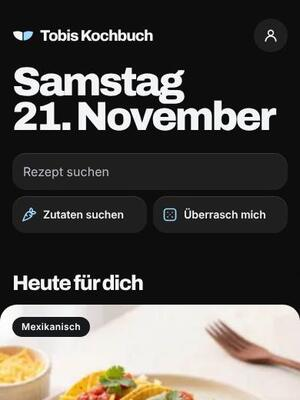
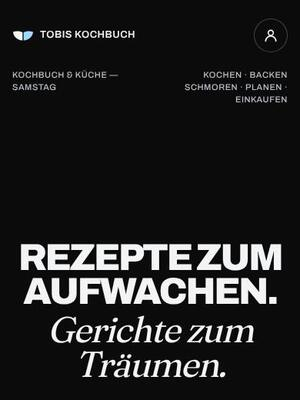
Glasklar neu: Vollbild-Leitsatz hinter 3D-Glas, nummerierte Abschnitte, Versal-Sätze, Fotos ohne Karten
Claude-Session: https://claude.ai/code/session_013PTjiN2vxWXEUNgaQEpBeg

diff --git a/assets/skins/glasklar.css b/assets/skins/glasklar.css
@@ -1,90 +1,130 @@
 /* Skin „glasklar“ – wird nur geladen, wenn dieser Skin aktiv ist (siehe Kopf von _layouts/default.html).
-   Wunsch des Besitzers (Nov. 2026): ein Glas- bzw. Eisblock vor riesiger Schrift (Vorbild: ein Portfolio mit Glasobjekt).
-   Der Seitentitel wird auf einer Leinwand nachgezeichnet, ein Glasblock gleitet darüber und bricht ihn.
-   Verhalten (Leinwand, Scroll-Bewegung): assets/skins/glasklar.js, geladen von fxRun() in assets/skins.js. Neue Regeln ans Ende. */
-
+   Dez. 2026 zweiter Neubau (Besitzer: „zu nah am Standard“), nach dem Vorbild (Portfolio eines Web-Designers; im Container nur als Text
+   lesbar): Schwarz, winzige Versal-Beschriftungen, nummerierte Abschnitte „(01) …“, große Versal-Sätze mit kursivem Serifenwort, Fotos
+   ohne Kartenfläche. Start: Vollbild mit Leitsatz hinter einem Eisbrocken aus echtem 3D-Glas (glasklar.js, glasklar-3d.js). Neue Regeln ans Ende. */
 @font-face{font-family:"Skin Glas";font-weight:100 900;font-display:swap;src:url("../fonts/archivo.woff2") format("woff2")}
 html.skin-glasklar:not(#_x#_y),html.skin-glasklar:not(#_x#_y) body{
-  --field:#0D0D0E;--onField:#F2F4F6;--onField2:#B9C0C7;--fieldFill:rgba(255,255,255,.08);
-  --bg:#0D0D0E;--surface:#18191B;--surface2:#202225;--fill:rgba(255,255,255,.07);--line:rgba(255,255,255,.12);--lineStrong:rgba(255,255,255,.4);
+  --field:#0B0B0C;--onField:#F2F4F6;--onField2:#B9C0C7;--fieldFill:rgba(255,255,255,.08);
+  --bg:#0B0B0C;--surface:#161718;--surface2:#1E2022;--fill:rgba(255,255,255,.07);--line:rgba(255,255,255,.14);--lineStrong:rgba(255,255,255,.45);
   --text:#F2F4F6;--sub:#B9C0C7;--sub2:#B9C0C7;--muted:#A3AAB2;
-  --brand:#F2F4F6;--onBrand:#0D0D0E;--leaf:#F2F4F6;--onLeaf:#0D0D0E;--brandSoft:rgba(255,255,255,.1);--leafSoft:rgba(255,255,255,.1);
-  --sel:#F2F4F6;--onSel:#0D0D0E;--accent:#9FD8FF;--accentSoft:rgba(159,216,255,.14);--onAccent:#0D0D0E;--herb:#F2F4F6;--coffee:#18191B;
-  --glass:rgba(16,17,19,.9);--glassLine:rgba(255,255,255,.12);--glassShadow:none;
-  --fontDisplay:"Skin Glas", -apple-system, "Inter", sans-serif;
+  --brand:#F2F4F6;--onBrand:#0B0B0C;--leaf:#F2F4F6;--onLeaf:#0B0B0C;--brandSoft:rgba(255,255,255,.1);--leafSoft:rgba(255,255,255,.1);
+  --sel:#F2F4F6;--onSel:#0B0B0C;--accent:#9FD8FF;--accentSoft:rgba(159,216,255,.14);--onAccent:#0B0B0C;--herb:#F2F4F6;--coffee:#161718;
+  --glass:rgba(14,15,16,.92);--glassLine:rgba(255,255,255,.12);--glassShadow:none;
+  --fontDisplay:"Skin Glas", -apple-system, "Inter", sans-serif;--fontUi:"Skin Glas", -apple-system, "Inter", sans-serif;
   color-scheme:dark}
-html.skin-glasklar:not(#_x#_y) body.grouped{--bg:#0D0D0E;--surface:#18191B}
-html.skin-glasklar:not(#_x#_y) .cookOverlay{--cBg:#0D0D0E;--cCard:#18191B;--cFill:rgba(255,255,255,.07);--cLine:rgba(255,255,255,.12);--cText:#F2F4F6;--cSub:#B9C0C7;--cLeaf:#F2F4F6;--cOnLeaf:#0D0D0E}
-html.skin-glasklar:not(#_x#_y) ::selection{background:#CFE3F0;color:#0D0F12}
+html.skin-glasklar:not(#_x#_y) body.grouped{--bg:#0B0B0C;--surface:#161718}
+html.skin-glasklar:not(#_x#_y) .cookOverlay{--cBg:#0B0B0C;--cCard:#161718;--cFill:rgba(255,255,255,.07);--cLine:rgba(255,255,255,.14);--cText:#F2F4F6;--cSub:#B9C0C7;--cLeaf:#F2F4F6;--cOnLeaf:#0B0B0C}
+html.skin-glasklar:not(#_x#_y) ::selection{background:#9FD8FF;color:#0B0B0C}
+html.skin-glasklar{background:#0B0B0C}
+html.skin-glasklar:not(#_x#_y) .skinScene{background:transparent !important}
+html.skin-glasklar:not(#_x#_y) body .pageContent{background:transparent !important;box-shadow:none !important}
+html.skin-glasklar:not(#_x#_y) .fxDrawn,html.skin-glasklar:not(#_x#_y) .fxDrawn *{color:transparent !important;-webkit-text-fill-color:transparent;text-shadow:none !important}
+.skinScene-glasklar .glGL,.gkHero .glGL{position:absolute;inset:0;width:100%;height:100%}
 
-html.skin-glasklar:not(#_x#_y) :is(.pageTitleBlock .h1,.homeGreetingTitle,.recipeHeroText .recipeName,.homeFeatured .homeFeaturedTitle,.homeSectionTitle,.h2,.sheetTitle,.recipeTitle,.catTileName,.navCompact,.catGroupTitle,.prepTitle,.continueTitle,.brandWordmark){font-family:var(--fontDisplay);font-weight:800;letter-spacing:-.05em}
-html.skin-glasklar:not(#_x#_y) .pageTitleBlock .h1,html.skin-glasklar:not(#_x#_y) body .homeGreetingTitle.homeGreetingTitle{font-size:min(clamp(2.8rem, 13.5vw, 5rem), 13.5vw);line-height:.86;font-weight:850;letter-spacing:-.06em}
-html.skin-glasklar:not(#_x#_y) .homeSectionTitle,html.skin-glasklar:not(#_x#_y) .h2{font-size:1.7rem}
-html.skin-glasklar:not(#_x#_y) .recipeTitle{font-weight:700;letter-spacing:-.03em}
-/* Titel, den die Leinwand nachzeichnet: Text bleibt für Vorlesen und Suche da, ist aber durchsichtig */
-html.skin-glasklar:not(#_x#_y) .fxDrawn{color:transparent !important;-webkit-text-fill-color:transparent;text-shadow:none !important}
-.skinScene-glasklar .fxCanvas{position:absolute;inset:0;width:100%;height:100%}
+/* ---------- Schrift: Versal-Grotesk, winzige Beschriftungen, kursive Serife als Akzent ---------- */
+html.skin-glasklar:not(#_x#_y) :is(.pageTitleBlock .h1,.recipeHeroText .recipeName,.homeSectionTitle,.h2,.sheetTitle,.recipeTitle,.catTileName,.navCompact,.catGroupTitle,.prepTitle,.continueTitle,.brandWordmark,.ingSection){font-family:"Skin Glas", -apple-system, "Inter", sans-serif !important;text-transform:uppercase;letter-spacing:-.02em !important}
+html.skin-glasklar:not(#_x#_y) .pageTitleBlock .h1{font-size:min(clamp(2.8rem, 13.5vw, 6rem), 13.5vw) !important;line-height:.86 !important;font-weight:850 !important;letter-spacing:-.05em !important}
+html.skin-glasklar:not(#_x#_y) :is(.homeSectionTitle,.h2,.catGroupTitle){font-size:.8125rem !important;font-weight:500 !important;letter-spacing:.04em !important;line-height:1.3 !important}
+html.skin-glasklar:not(#_x#_y) .homeSectionHead{border-top:1px solid rgba(255,255,255,.18);padding-top:12px}
+.gkN{color:#9FD8FF}
+html.skin-glasklar:not(#_x#_y) :is(.homeAllLink,.resultCount,.continueEyebrow,.recipeMeta,.catTileCount,.tabLabel,.kv,.recipeAuthor,.segBtn,.filterChip,.chip,.pillToggle,.homeQuickBtn,.searchRow input,.ingHead,.notesTitle){text-transform:uppercase;letter-spacing:.04em !important;font-size:.75rem !important;font-weight:500 !important}
+html.skin-glasklar:not(#_x#_y) .homeAllLink{color:#F2F4F6 !important}
+html.skin-glasklar:not(#_x#_y) .homeAllLink::after{content:" ↗"}
 
-/* Eis: helle Flächen mit weißer Lichtkante */
-html.skin-glasklar:not(#_x#_y) :is(.recipeCard:not(.homeFeatured),.catTile,.homeFeatured,.continueCard,.homeEmpty,.homeTimer){border-radius:22px !important;
-  box-shadow:inset 0 0 0 1px rgba(255,255,255,.9), 0 12px 32px rgba(30,60,90,.10) !important}
-html.skin-glasklar:not(#_x#_y) .recipeCard:not(.homeFeatured){background:#FFFFFF !important}
-html.skin-glasklar:not(#_x#_y) .recipeCard .rcImg{border-radius:16px !important}
-html.skin-glasklar:not(#_x#_y) .searchRow,html.skin-glasklar:not(#_x#_y) body.layout-home .searchRowCompact,html.skin-glasklar:not(#_x#_y) .homeQuickBtn{background:rgba(255,255,255,.72) !important;color:#0D0F12 !important;
-  box-shadow:inset 0 1px 0 #FFFFFF, inset 0 0 0 1px rgba(255,255,255,.9), 0 8px 24px rgba(30,60,90,.08) !important;border-radius:18px !important}
-html.skin-glasklar:not(#_x#_y) .homeQuickBtn .uiIcon{color:#1F5F8B}
-html.skin-glasklar:not(#_x#_y) :is(.btn.action,.recipeCookBtn,.cookNext,.btnPrimary){background:#0D0F12 !important;color:#FFFFFF !important;border-radius:999px !important}
-html.skin-glasklar:not(#_x#_y) :is(.filterChip,.chip,.pillToggle){background:rgba(255,255,255,.75) !important;box-shadow:inset 0 0 0 1px rgba(13,15,18,.14) !important;border-radius:999px !important}
-html.skin-glasklar:not(#_x#_y) :is(.filterChip.active,.filterChip[aria-pressed="true"],.pillToggle.active,.pillToggle[aria-pressed="true"]){background:#0D0F12 !important;color:#FFFFFF !important}
-html.skin-glasklar:not(#_x#_y) .bottomRail{background:rgba(244,247,249,.82) !important;border:1px solid rgba(255,255,255,.95);box-shadow:inset 0 1px 0 #FFFFFF, 0 12px 36px rgba(30,60,90,.14) !important}
-html.skin-glasklar:not(#_x#_y) .tabItem{color:#3B4148 !important}
-html.skin-glasklar:not(#_x#_y) .tabItem.active{background:#0D0F12 !important;color:#FFFFFF !important}
-html.skin-glasklar:not(#_x#_y) .homeAllLink{color:#1F5F8B}
-html.skin-glasklar:not(#_x#_y) .continueCard{background:#0D0F12 !important;color:#FFFFFF !important}
-html.skin-glasklar:not(#_x#_y) .continueCard :is(.continueEyebrow,.continueTitle,.continueSub){color:#FFFFFF !important}
-html.skin-glasklar:not(#_x#_y) .continuePlay{background:#FFFFFF !important;color:#0D0F12 !important}
+/* ---------- Knöpfe, Kapseln, Leiste ---------- */
+html.skin-glasklar:not(#_x#_y) :is(.searchRow,.homeQuickBtn,.navIconBtn,.recipeActBtn,.recipeBack,.profileBadge,.segmented){background:transparent !important;box-shadow:inset 0 0 0 1px rgba(255,255,255,.24) !important;color:#F2F4F6 !important;border-radius:999px !important}
+html.skin-glasklar:not(#_x#_y) .homeQuickBtn .uiIcon{color:#9FD8FF}
+html.skin-glasklar:not(#_x#_y) :is(.filterChip,.chip,.pillToggle){background:transparent !important;box-shadow:inset 0 0 0 1px rgba(255,255,255,.24) !important;color:#F2F4F6 !important;border-radius:999px !important}
+html.skin-glasklar:not(#_x#_y) :is(.filterChip.active,.filterChip[aria-pressed="true"],.pillToggle.active,.pillToggle[aria-pressed="true"],.chipMainCat){background:#F2F4F6 !important;color:#0B0B0C !important}
+html.skin-glasklar:not(#_x#_y) :is(.btn.action,.recipeCookBtn,.cookNext,.btnPrimary,.continuePlay){background:#F2F4F6 !important;color:#0B0B0C !important;border-radius:999px !important;text-transform:uppercase;letter-spacing:.04em;font-size:.8125rem !important}
+html.skin-glasklar:not(#_x#_y) .segBtn{background:transparent !important;color:#B9C0C7 !important;border-radius:999px !important}
+html.skin-glasklar:not(#_x#_y) .segBtn.active{background:#F2F4F6 !important;color:#0B0B0C !important}
+html.skin-glasklar:not(#_x#_y) .bottomRail{background:rgba(14,15,16,.78) !important;-webkit-backdrop-filter:blur(18px);backdrop-filter:blur(18px);border:1px solid rgba(255,255,255,.12) !important;box-shadow:0 12px 36px rgba(0,0,0,.6) !important}
+html.skin-glasklar:not(#_x#_y) .tabItem{color:#B9C0C7 !important;background:transparent !important}
+html.skin-glasklar:not(#_x#_y) .tabItem.active{background:#F2F4F6 !important;color:#0B0B0C !important}
 
-html.skin-glasklar:not(#_x#_y) .bxRv{opacity:0;transform:translateY(20px) scale(.97)}
-html.skin-glasklar:not(#_x#_y) .bxRv.bxRvX{transform:translateX(20px) scale(.97)}
+/* ---------- Fotos ohne Kartenfläche ---------- */
+html.skin-glasklar:not(#_x#_y) .recipeCard{background:transparent !important;box-shadow:none !important;border-radius:0 !important;overflow:visible !important}
+html.skin-glasklar:not(#_x#_y) .recipeCard .rcImg{border-radius:4px !important;box-shadow:none !important}
+html.skin-glasklar:not(#_x#_y) .recipeCard .rcBody{padding:10px 0 0 !important}
+html.skin-glasklar:not(#_x#_y) .recipeCard .recipeTitle{font-size:1.0625rem !important;font-weight:700 !important;line-height:1.15 !important;color:#F2F4F6}
+html.skin-glasklar:not(#_x#_y) .recipeCard .recipeMeta{color:#B9C0C7 !important}
+html.skin-glasklar:not(#_x#_y) .homeFeatured .rcImg{aspect-ratio:4/5 !important;max-height:none}
+html.skin-glasklar:not(#_x#_y) .homeFeatured .rcBody{position:static !important;background:none !important}
+html.skin-glasklar:not(#_x#_y) .homeFeatured :is(.homeFeaturedTitle,.recipeMeta){color:#F2F4F6 !important;text-shadow:none !important}
+html.skin-glasklar:not(#_x#_y) .homeFeatured .homeFeaturedTitle{font-family:"Skin Glas", -apple-system, "Inter", sans-serif !important;text-transform:uppercase;font-weight:800 !important;font-size:1.75rem !important;letter-spacing:-.03em !important}
+html.skin-glasklar:not(#_x#_y) .homeFeatured .heroOverlayCat{background:rgba(11,11,12,.6) !important;color:#F2F4F6 !important;text-transform:uppercase;letter-spacing:.04em}
+html.skin-glasklar:not(#_x#_y) .hScroll .rcImg{aspect-ratio:4/5 !important}
+html.skin-glasklar:not(#_x#_y) #recipeGrid{display:grid !important;grid-template-columns:repeat(2,minmax(0,1fr)) !important;gap:34px 14px !important}
+@media (min-width:700px){html.skin-glasklar:not(#_x#_y) #recipeGrid{grid-template-columns:repeat(3,minmax(0,1fr)) !important;gap:48px 22px !important}}
+@media (min-width:1100px){html.skin-glasklar:not(#_x#_y) #recipeGrid{grid-template-columns:repeat(4,minmax(0,1fr)) !important}}
+html.skin-glasklar:not(#_x#_y) #recipeGrid .linkCard{margin:0 !important}
+html.skin-glasklar:not(#_x#_y) #recipeGrid .rcImg{aspect-ratio:3/4 !important}
+html.skin-glasklar:not(#_x#_y) #recipeGrid .recipeMeta>:nth-child(n+2){display:none !important}
+html.skin-glasklar:not(#_x#_y) :is(.catTile,.homeEmpty,.uEmpty,.homeTimer,.continueCard){border-radius:4px !important;box-shadow:inset 0 0 0 1px rgba(255,255,255,.12) !important}
+html.skin-glasklar:not(#_x#_y) :is(.homeEmpty,.uEmpty){background:transparent !important}
+html.skin-glasklar:not(#_x#_y) .continueCard{background:#F2F4F6 !important;color:#0B0B0C !important}
+html.skin-glasklar:not(#_x#_y) .continueCard :is(.continueEyebrow,.continueTitle,.continueSub){color:#0B0B0C !important}
+html.skin-glasklar:not(#_x#_y) .continuePlay{background:#0B0B0C !important;color:#F2F4F6 !important}
+
+/* ---------- Startseite: Vollbild mit Leitsatz hinter Glas ---------- */
+html.skin-glasklar:not(#_x#_y) body.gkHome .homeGreeting{position:relative;min-height:100svh;margin-top:calc(-1 * env(safe-area-inset-top));padding-top:env(safe-area-inset-top)}
+html.skin-glasklar:not(#_x#_y) body.gkHome :is(.homeBrand,.homeGreetingTitle){position:relative;z-index:3}
+html.skin-glasklar:not(#_x#_y) body.gkHome .brandWordmark{font-size:.8125rem !important;font-weight:600 !important;letter-spacing:.04em !important}
+html.skin-glasklar:not(#_x#_y) body.gkHome :is(.homeGreetingTitle,.homeGreetingSub){position:absolute !important;width:1px;height:1px;overflow:hidden;clip:rect(0 0 0 0);white-space:nowrap}
+.gkHero{position:absolute;top:-140px;bottom:0;left:50%;width:100vw;margin-left:-50vw;z-index:1;overflow:hidden;background:#0B0B0C;touch-action:pan-y}
+.gkTop{position:absolute;left:max(16px, 4vw);right:max(16px, 4vw);top:calc(140px + env(safe-area-inset-top) + 66px);display:flex;justify-content:space-between;gap:16px;
+  font:500 .6875rem/1.45 "Skin Glas", -apple-system, "Inter", sans-serif;letter-spacing:.05em;text-transform:uppercase;color:#B9C0C7;z-index:2}
+.gkTop span:last-child{text-align:right}
+.gkLine{position:absolute;left:0;right:0;top:calc(50% + 70px);transform:translateY(-50%);margin:0;padding:0 max(16px, 4vw);text-align:center;color:#F2F4F6;z-index:1}
+.gkA{display:block;font:850 min(12.5vw, 7.5rem)/.9 "Skin Glas", -apple-system, "Inter", sans-serif;letter-spacing:-.055em;text-transform:uppercase}
+.gkB{display:block;margin-top:.12em;font:italic 400 min(12vw, 7rem)/.95 "Fraunces", Georgia, serif;letter-spacing:-.03em}
+.gkScroll{position:absolute;left:0;right:0;bottom:calc(env(safe-area-inset-bottom) + 104px);display:flex;flex-direction:column;align-items:center;gap:10px;font:500 .6875rem "Skin Glas", -apple-system, "Inter", sans-serif;letter-spacing:.06em;text-transform:uppercase;color:#B9C0C7;z-index:2}
+.gkScroll i{width:1px;height:34px;background:linear-gradient(#B9C0C7, transparent)}
+
+/* „(01) Heute“ */
+.gkAbout{padding:64px 0 48px;border-top:1px solid rgba(255,255,255,.18)}
+.gkNo{margin:0 0 18px;font:500 .75rem "Skin Glas", -apple-system, "Inter", sans-serif;letter-spacing:.05em;text-transform:uppercase;color:#9FD8FF}
+.gkSay{margin:0 0 24px;font:700 clamp(1.6rem, 7vw, 3.2rem)/1.04 "Skin Glas", -apple-system, "Inter", sans-serif;letter-spacing:-.035em;text-transform:uppercase}
+.gkW{color:#5C6168;transition:color .3s ease}
+.gkW.on{color:#F2F4F6}
+.gkEm{font-family:"Fraunces", Georgia, serif;font-style:italic;font-weight:400;text-transform:none;letter-spacing:-.02em}
+.gkEm.on{color:#9FD8FF}
+.gkMore{display:inline-flex;align-items:center;gap:6px;min-height:44px;color:#F2F4F6;font:500 .8125rem "Skin Glas", -apple-system, "Inter", sans-serif;letter-spacing:.05em;text-transform:uppercase;text-decoration:none;border-bottom:1px solid currentColor}
+
+/* ---------- Rezeptseite: Titel groß über dem Foto, Beschriftungen klein ---------- */
+html.skin-glasklar:not(#_x#_y) .recipePageCard{background:transparent !important;box-shadow:none !important;overflow:visible !important}
+html.skin-glasklar:not(#_x#_y) .recipePageHero{display:flex !important;flex-direction:column;height:auto !important;max-height:none !important;aspect-ratio:auto !important;overflow:visible !important;background:transparent !important;border-radius:0 !important;margin-top:58px !important}
+html.skin-glasklar:not(#_x#_y) .recipePageHero::before,html.skin-glasklar:not(#_x#_y) .recipePageHero::after{display:none !important}
+html.skin-glasklar:not(#_x#_y) .recipeHeroText{order:-1;position:static !important;padding:0 0 18px !important;background:none !important}
+html.skin-glasklar:not(#_x#_y) .recipeHeroText .recipeName{font-size:min(clamp(2.6rem, 12.5vw, 6rem), 12.5vw) !important;font-weight:850 !important;line-height:.88 !important;letter-spacing:-.05em !important;color:#F2F4F6 !important;text-shadow:none !important}
+html.skin-glasklar:not(#_x#_y) .recipeHeroText .recipeSubtitle{display:block !important;-webkit-line-clamp:unset !important;margin-top:12px;font:italic 400 1.375rem/1.25 "Fraunces", Georgia, serif !important;color:#B9C0C7 !important;text-shadow:none !important}
+html.skin-glasklar:not(#_x#_y) .recipePageHero img.recipeHeroImg{position:static !important;width:100% !important;height:auto !important;aspect-ratio:4/3;object-fit:cover;border-radius:4px !important;transform:none !important}
+@media (min-width:900px){html.skin-glasklar:not(#_x#_y) .recipePageHero img.recipeHeroImg{aspect-ratio:16/9;max-height:72vh}}
+html.skin-glasklar:not(#_x#_y) .recipePageBody{background:transparent !important;box-shadow:none !important;margin-top:0 !important;padding-top:24px !important}
+html.skin-glasklar:not(#_x#_y) .recipeInnerCard{background:transparent !important;box-shadow:inset 0 0 0 1px rgba(255,255,255,.12) !important;border-radius:4px !important}
+html.skin-glasklar:not(#_x#_y) .recipeSegWrap.isStuck{background:rgba(11,11,12,.94) !important}
+
+html.skin-glasklar:not(#_x#_y) .bxRv{opacity:0;transform:translateY(20px)}
 html.skin-glasklar:not(#_x#_y) .bxRv.bxIn{opacity:1;transform:none;transition:opacity .7s var(--easeSheet),transform .9s var(--easeSheet)}
-
-html.skin-glasklar:not(#_x#_y) .bbFooter{background:#0D0F12;color:#FFFFFF}
-html.skin-glasklar:not(#_x#_y) .bbFootText b{font-family:var(--fontDisplay);font-weight:850;letter-spacing:-.06em}
-html.skin-glasklar:not(#_x#_y) .bbFootText span{color:#C9D3DA}
-html.skin-glasklar:not(#_x#_y) .bbFootText a{background:#FFFFFF;color:#0D0F12}
+html.skin-glasklar:not(#_x#_y) .bbFooter{background:#000000;color:#F2F4F6}
+html.skin-glasklar:not(#_x#_y) .bbFootText b{font-family:"Skin Glas", -apple-system, "Inter", sans-serif;font-weight:850;letter-spacing:-.06em;text-transform:uppercase}
+html.skin-glasklar:not(#_x#_y) .bbFootText span{color:#B9C0C7}
+html.skin-glasklar:not(#_x#_y) .bbFootText a{background:#F2F4F6;color:#0B0B0C}
 
 /* Vorspann: riesiges Wort, ein Glasblock gleitet darüber */
-.skIntro-glasklar{background:#E8EDF1;color:#0D0F12}
-.skIntro-glasklar .ivWord{font:850 clamp(4rem, 24vw, 12rem)/.85 "Skin Glas", sans-serif;letter-spacing:-.07em;animation:glWord .6s ease both}
+.skIntro-glasklar{background:#0B0B0C;color:#F2F4F6}
+.skIntro-glasklar .ivWord{font:850 clamp(4rem, 24vw, 12rem)/.85 "Skin Glas", sans-serif;letter-spacing:-.07em;text-transform:uppercase;animation:glWord .6s ease both}
 .skIntro-glasklar .ivGlass{position:absolute;left:50%;top:50%;width:min(52vw, 280px);aspect-ratio:1;margin:calc(min(52vw, 280px) / -2) 0 0 calc(min(52vw, 280px) / -2);border-radius:34%;
-  background:radial-gradient(circle at 30% 25%, rgba(255,255,255,.85), rgba(255,255,255,.15) 38%, rgba(160,200,225,.18) 70%, rgba(255,255,255,.55));
-  box-shadow:inset 0 0 0 1.5px rgba(255,255,255,.9), inset 0 -18px 40px rgba(120,160,190,.25), 0 30px 60px rgba(30,60,90,.18);
+  background:radial-gradient(circle at 30% 25%, rgba(255,255,255,.55), rgba(255,255,255,.06) 38%, rgba(160,216,255,.12) 70%, rgba(255,255,255,.35));
+  box-shadow:inset 0 0 0 1.5px rgba(255,255,255,.7), inset 0 -18px 40px rgba(159,216,255,.2);
   -webkit-backdrop-filter:blur(3px) saturate(1.3);backdrop-filter:blur(3px) saturate(1.3);
   animation:glSweep 1.8s cubic-bezier(.6,0,.2,1) .15s both}
 @keyframes glWord{from{opacity:0;transform:scale(1.06)}}
 @keyframes glSweep{from{transform:translateX(-80vw) rotate(-25deg)}to{transform:translateX(0) rotate(8deg)}}
 
-/* Nov. 2026 neu: dunkle Fassung nach dem Vorbild, echtes 3D-Glas (glasklar.js, glasklar-3d.js) */
-html.skin-glasklar:has(body.fieldPage){background:#0D0D0E}
-.skinScene-glasklar .glGL{position:absolute;inset:0;width:100%;height:100%}
-html.skin-glasklar:not(#_x#_y) ::selection{background:#9FD8FF;color:#0D0D0E}
-html.skin-glasklar:not(#_x#_y) :is(.recipeCard:not(.homeFeatured),.catTile,.homeFeatured,.continueCard,.homeEmpty,.homeTimer){box-shadow:inset 0 0 0 1px rgba(255,255,255,.08) !important}
-html.skin-glasklar:not(#_x#_y) .recipeCard:not(.homeFeatured){background:#18191B !important}
-html.skin-glasklar:not(#_x#_y) .searchRow,html.skin-glasklar:not(#_x#_y) body.layout-home .searchRowCompact,html.skin-glasklar:not(#_x#_y) .homeQuickBtn{background:rgba(255,255,255,.08) !important;color:#F2F4F6 !important;box-shadow:inset 0 1px 0 rgba(255,255,255,.12) !important}
-html.skin-glasklar:not(#_x#_y) .homeQuickBtn .uiIcon{color:#9FD8FF}
-html.skin-glasklar:not(#_x#_y) :is(.btn.action,.recipeCookBtn,.cookNext,.btnPrimary){background:#F2F4F6 !important;color:#0D0D0E !important}
-html.skin-glasklar:not(#_x#_y) :is(.filterChip,.chip,.pillToggle){background:transparent !important;box-shadow:inset 0 0 0 1px rgba(255,255,255,.22) !important;color:#F2F4F6}
-html.skin-glasklar:not(#_x#_y) :is(.filterChip.active,.filterChip[aria-pressed="true"],.pillToggle.active,.pillToggle[aria-pressed="true"]){background:#F2F4F6 !important;color:#0D0D0E !important}
-html.skin-glasklar:not(#_x#_y) .bottomRail{background:rgba(16,17,19,.88) !important;border:1px solid rgba(255,255,255,.1);box-shadow:0 12px 36px rgba(0,0,0,.5) !important}
-html.skin-glasklar:not(#_x#_y) .tabItem{color:#B9C0C7 !important}
-html.skin-glasklar:not(#_x#_y) .tabItem.active{background:#F2F4F6 !important;color:#0D0D0E !important}
-html.skin-glasklar:not(#_x#_y) .homeAllLink{color:#9FD8FF}
-html.skin-glasklar:not(#_x#_y) .continueCard{background:#F2F4F6 !important;color:#0D0D0E !important}
-html.skin-glasklar:not(#_x#_y) .continueCard :is(.continueEyebrow,.continueTitle,.continueSub){color:#0D0D0E !important}
-html.skin-glasklar:not(#_x#_y) .continuePlay{background:#0D0D0E !important;color:#F2F4F6 !important}
-html.skin-glasklar:not(#_x#_y) .bbFooter{background:#000000;color:#F2F4F6}
-.skIntro-glasklar{background:#0D0D0E;color:#F2F4F6}
-
 @media (prefers-reduced-motion: reduce){
 html.skin-glasklar:not(#_x#_y) .bxRv{opacity:1;transform:none}
+.skIntro-glasklar .ivWord,.skIntro-glasklar .ivGlass{animation:none}
+.gkW{transition:none}
 }

diff --git a/assets/skins/glasklar.js b/assets/skins/glasklar.js
@@ -1,32 +1,36 @@
-// Skin „Glasklar“ (Nov. 2026 neu nach Vergleich mit dem Vorbild – Portfolio mit Glasobjekt vor großer Schrift, dunkler Grund):
-// riesiger weißer Titel auf Schwarz, davor ein Eisbrocken aus echtem 3D-Glas, der die Schrift bricht (glasklar-3d.js). Folgt dem Finger.
-// Der echte Titel bleibt fürs Vorlesen da (.fxDrawn). Ohne echte Grafikkarte bleibt der normale Titel ohne Glas.
+// Skin „Glasklar“ (Dez. 2026, zweiter Neubau nach dem Vorbild – Portfolio eines Web-Designers: schwarzer Grund, Glasobjekt vor großer
+// Schrift, winzige Versal-Beschriftungen, „(01) About“-Abschnitte, große Versal-Sätze mit einem kursiven Serifenwort, „Scroll to explore“).
+// Die Seite des Vorbilds blieb im Container beim Ladebild stehen; Aufbau und Wortlaut stammen aus ihrem Text.
+// Startseite: Vollbild mit Leitsatz, den ein Eisbrocken aus echtem 3D-Glas bricht (glasklar-3d.js, folgt dem Finger); andere Feld-Seiten:
+// Glas über dem Seitentitel. „(01) Heute“ füllt sich beim Scrollen Wort für Wort. Ohne echte Grafikkarte bleibt die Schrift ohne Glas.
 (()=>{
   "use strict";
-  async function run(api){
-    const sc = api.scene(), title = api.title();
-    if(!sc || !title) return;
+  const esc = (t)=> String(t || "").replace(/[&<>"]/g, (c)=> ({ "&": "&amp;", "<": "&lt;", ">": "&gt;", '"': "&quot;" })[c]);
+
+  async function glass(api, sc, title, opts = {}){
     const cv = document.createElement("canvas"); cv.className = "fxCanvas glGL"; cv.setAttribute("aria-hidden", "true");
-    sc.appendChild(cv); api.add(()=> cv.remove());
+    sc.prepend(cv); api.add(()=> cv.remove());
     const txt = document.createElement("canvas");
-    try{ await document.fonts.load('850 80px "Skin Glas"'); }catch{}
+    try{ await document.fonts.load('850 80px "Skin Glas"'); await document.fonts.load('italic 400 80px "Fraunces"'); }catch{}
     const mod = await import(`/assets/skins/glasklar-3d.js?v=${api.ver}`);
     if(!cv.isConnected) return;
-    let three = null;
+    let three = null, m = null;
     const paint = ()=>{
       const r = cv.getBoundingClientRect(); if(!r.width) return null;
       const d = Math.min(2, devicePixelRatio || 1);
       title.classList.remove("fxDrawn");
-      const gl = api.glyphs(title, sc);
       txt.width = Math.round(r.width * d); txt.height = Math.round(r.height * d);
-      const g = txt.getContext("2d"); g.setTransform(d, 0, 0, d, 0, 0); g.fillStyle = "#0D0D0E"; g.fillRect(0, 0, r.width, r.height);
-      g.font = gl.font; g.fillStyle = gl.color; gl.list.forEach((q)=> g.fillText(q.ch, q.x, q.y));
+      const g = txt.getContext("2d"); g.setTransform(d, 0, 0, d, 0, 0); g.fillStyle = "#0B0B0C"; g.fillRect(0, 0, r.width, r.height);
+      // jede Zeile/Spanne mit eigener Schrift (Leitsatz mischt Grotesk und kursive Serife)
+      (opts.parts ? [...title.querySelectorAll(opts.parts)] : [title]).forEach((el)=>{
+        const gl = api.glyphs(el, sc), up = getComputedStyle(el).textTransform === "uppercase"; g.font = gl.font; g.fillStyle = gl.color; gl.list.forEach((q)=> g.fillText(up ? q.ch.toUpperCase() : q.ch, q.x, q.y));
+      });
       title.classList.add("fxDrawn");
       const tr = title.getBoundingClientRect(), s = sc.getBoundingClientRect();
-      return { w: r.width, h: r.height, d, cx: Math.min(r.width - 50, tr.left - s.left + tr.width * .66), cy: tr.top - s.top + tr.height * .5, R: Math.min(tr.height * .55 + 20, r.width * .26, 170) };
+      const cx = opts.center ? r.width / 2 : Math.min(r.width - 50, tr.left - s.left + tr.width * .66);
+      return { w: r.width, h: r.height, d, cx, cy: tr.top - s.top + tr.height * .5, R: opts.center ? Math.min(tr.height * .42 + 20, r.width * .27, 190) : Math.min(tr.height * .55 + 20, r.width * .26, 170) };
     };
     api.add(()=> title.classList.remove("fxDrawn"));
-    let m = null;
     const fit = ()=>{
       m = paint(); if(!m) return;
       if(!three){ three = mod.create(cv, txt); api.add(()=> three.dispose()); }
@@ -43,7 +47,56 @@
     fit();
     document.fonts?.ready?.then(fit);
   }
+
+  function hero(api){
+    const host = document.querySelector(".homeGreeting");
+    if(!host) return null;
+    const day = new Date().toLocaleDateString("de-DE", { weekday: "long" });
+    const el = api.bit("gkHero", "glasklar");
+    el.innerHTML = `<div class="gkTop" aria-hidden="true"><span>Kochbuch &amp; Küche — ${esc(day)}</span><span>Kochen · Backen<br>Schmoren · Planen · Einkaufen</span></div>
+      <p class="gkLine"><span class="gkA">Rezepte zum Aufwachen.</span> <span class="gkB">Gerichte zum Träumen.</span></p>
+      <div class="gkScroll" aria-hidden="true"><span>Zum Entdecken scrollen</span><i></i></div>`;
+    host.prepend(el); api.add(()=> el.remove());
+    document.body.classList.add("gkHome"); api.add(()=> document.body.classList.remove("gkHome"));
+    return el;
+  }
+
+  // „(01) Heute“: großer Versal-Satz mit kursivem Serifen-Teil, füllt sich beim Scrollen
+  function about(api, after){
+    const a = document.getElementById("todayLink"), title = a?.querySelector(".homeFeaturedTitle")?.textContent.trim();
+    if(!a || !title) return;
+    const meta = [...a.querySelectorAll(".recipeMeta .metaItem")].map((x)=> x.textContent.trim()).filter(Boolean).join(", ");
+    const W = (t, cls)=> t.split(" ").map((w)=> `<span class="gkW${cls ? " " + cls : ""}">${esc(w)}</span>`).join(" ");
+    const el = api.bit("gkAbout", "glasklar", "section");
+    el.innerHTML = `<p class="gkNo">(01) Heute</p><p class="gkSay">${W("Heute koche ich etwas, das bleibt wie")} ${W("eine Erinnerung", "gkEm")} ${W("— " + title + (meta ? ", " + meta : "") + ".")}</p><a class="gkMore" href="${esc(a.getAttribute("href"))}">Zum Rezept <span aria-hidden="true">↗</span></a>`;
+    after.after(el); api.add(()=> el.remove());
+    const ws = [...el.querySelectorAll(".gkW")];
+    let raf = 0;
+    const fill = ()=>{ raf = 0; const r = el.getBoundingClientRect(); const p = api.reduce() ? 1 : Math.max(0, Math.min(1, (innerHeight * .85 - r.top) / (r.height * .9))); const k = Math.round(p * ws.length); ws.forEach((w, i)=> w.classList.toggle("on", i < k)); };
+    api.on(window, "scroll", ()=>{ if(!raf) raf = requestAnimationFrame(fill); }, { passive: true });
+    fill();
+  }
+
+  // Abschnittstitel nummerieren: „(02) Favoriten“
+  function numbers(api){
+    let n = api.home() ? 1 : 0;
+    document.querySelectorAll(".homeSectionTitle, .pageContent .h2, .catGroupTitle").forEach((h)=>{
+      if(h.querySelector(".gkN")) return;
+      n++; const s = document.createElement("span"); s.className = "gkN"; s.setAttribute("aria-hidden", "true"); s.textContent = `(${String(n).padStart(2, "0")}) `;
+      h.prepend(s); api.add(()=> s.remove());
+    });
+  }
+
   window.KOCHBUCH_FX.glasklar = {
-    start(api){ if(document.body.classList.contains("fieldPage") && api.gpu()) run(api).catch((e)=> console.warn("Glasklar 3D:", e)); },
+    start(api){
+      numbers(api);
+      if(api.home()){
+        const h = hero(api);
+        if(h){ about(api, document.querySelector(".homeGreeting")); if(api.gpu()) glass(api, h, h.querySelector(".gkLine"), { center: true, parts: ".gkA, .gkB" }).catch((e)=> console.warn("Glasklar 3D:", e)); }
+        return;
+      }
+      const sc = api.scene(), t = api.title();
+      if(document.body.classList.contains("fieldPage") && sc && t && api.gpu()) glass(api, sc, t).catch((e)=> console.warn("Glasklar 3D:", e));
+    },
   };
 })();

diff --git a/_layouts/default.html b/_layouts/default.html
@@ -51,7 +51,7 @@
     // Versteckter Retro-Modus (5× auf „Tobis Kochbuch“ auf der Startseite tippen)
     // Skins (Nov. 2026): Standard, Retro und acht weitere; gewählt unter „Mehr“ → „Skin“ (kochbuch.ui.skin, pro Gerät).
     // Wert = Farbe der Statusleiste/theme-color. Skins außer Standard haben ein festes Aussehen (kein Hell/Dunkel).
-    window.KOCHBUCH_SKINS = { standard:'', retro:'#000080', terminal:'#23271F', diner:'#B3122E', bauhaus:'#111111', nordwall:'#1B120C', zauberschule:'#2A1712', jahr3000:'#14141A', zweistaedte:'#152039', insel:'#2A2618', akte:'#1E140D', brigade:'#2A2F33', boxengasse:'#282C20', bildband:'#EFE7D8', wortwelt:'#161515', blauraum:'#0C0CD6', glasklar:'#0D0D0E', tiefsee:'#E6E4EE', formlabor:'#F5F3EE', galerie:'#DCDAD1' };
+    window.KOCHBUCH_SKINS = { standard:'', retro:'#000080', terminal:'#23271F', diner:'#B3122E', bauhaus:'#111111', nordwall:'#1B120C', zauberschule:'#2A1712', jahr3000:'#14141A', zweistaedte:'#152039', insel:'#2A2618', akte:'#1E140D', brigade:'#2A2F33', boxengasse:'#282C20', bildband:'#EFE7D8', wortwelt:'#161515', blauraum:'#0C0CD6', glasklar:'#0B0B0C', tiefsee:'#E6E4EE', formlabor:'#F5F3EE', galerie:'#DCDAD1' };
     window.KOCHBUCH_SKIN = function(){
       var s = null;
       try { s = JSON.parse(localStorage.getItem('kochbuch.ui.skin')); if (!s && JSON.parse(localStorage.getItem('kochbuch.ui.retro'))) s = 'retro'; } catch(e){}

diff --git a/sw.js b/sw.js
@@ -1,7 +1,7 @@
 /* Tobis Kochbuch — Service Worker
    Offline: Seiten „netzwerk-zuerst“, aber nach 3 s Warten (schlechter Empfang im Supermarkt) aus dem Cache.
    CSS/JS/Bilder „Cache zuerst“, im Hintergrund aktualisieren. /api/ nie cachen. */
-const VERSION = 'kochbuch-v126';
+const VERSION = 'kochbuch-v127';
 const ASSET_CACHE = `${VERSION}-assets`;
 const IMAGE_CACHE = `${VERSION}-images`;
 const PAGE_CACHE = `${VERSION}-pages`;

diff --git a/CLAUDE.md b/CLAUDE.md
@@ -138,7 +138,7 @@ Nur `/api/*` läuft durch den Worker (`run_worker_first`), alles andere sind sta
     (`blauraum-3d.js`: drei Ringe aus Rezeptfotos um eine Kochmütze aus verchromten Lamellen, Ringe/Spirale, Ziehen/Scrollen dreht, Antippen
     öffnet, am Rechner Etikett `.blTip` am Zeiger); ohne Grafikkarte CSS-Bilderring `.blRing`. Rezeptliste: Fotos hochkant auf gewölbter
     Fläche (Neigung je nach Lage, `listPage()`), Umschalter „Raster | Liste“ (`kochbuch.ui.blList`). Rezeptseite: Foto mittig, Name klein
-    in Versalien, Untertitel groß. Die anderen fünf Effekt-Skins sollen nach dem OK des Besitzers genauso gründlich umgebaut werden.
+    in Versalien, Untertitel groß. Nach dem OK des Besitzers sind die anderen fünf Effekt-Skins genauso umgebaut worden (Dez. 2026).
     **Bilderbuch** (Schlüssel `wortwelt`; Dez. 2026 zweiter Neubau wie Blauraum, Vorbild howtotalktowhitekidsaboutracism.com mit „Open book“
     durchgeblättert): dunkler, diagonal gestrichener Grund (`html::before`); die Startseite IST das Buch (`.wwHero`): erst geschlossen (Kreide-Deckel
     „Tobis KOCH BUCH“, Kapsel „Buch öffnen“, Widmung mit Datum), dann je Rezept eine Doppelseite in kräftiger Farbe (`VIVID`: Rosa, Koralle, Grün,
@@ -159,9 +159,13 @@ Nur `/api/*` läuft durch den Worker (`run_worker_first`), alles andere sind sta
     „aus Tobis Küche.“; darunter große Kategorienliste auf Braun (Zeile in der Bildmitte leuchtet, `.flRow.on`), dann Creme-Teil „[ Heute für dich ]“,
     dessen Text sich beim Scrollen Wort für Wort füllt (`today()`). Rezeptliste: eine Spalte großer Fotos (4:5). Rezeptseite: großer Titel über dem
     Foto, Steckbrief „[ Über das Rezept ]“ (Kategorie, Zeit, Portionen, Von; `facts()`).
-    **Glasklar** (Vorbild: Portfolio mit Glasobjekt vor großer Schrift): Schwarz `#0D0D0E`, riesiger weißer Titel (Archivo, „Skin Glas“),
-    Eisblau `#9FD8FF` als Akzent. Auf allen Feld-Seiten (`glasklar-3d.js`): Titel als undurchsichtige Fläche (sonst sieht die
-    Transmission sie nicht), davor ein Eisbrocken aus `MeshPhysicalMaterial` (transmission, dispersion) – bricht die Schrift, folgt dem Finger.
+    **Glasklar** (Dez. 2026 zweiter Neubau wie Blauraum, Vorbild daikifujita.com – bleibt im Container beim Ladebild, weil `api.framer.com`
+    gesperrt ist; Aufbau aus dem Seitentext): Schwarz `#0B0B0C`, Versal-Grotesk Archivo („Skin Glas“), winzige Versal-Beschriftungen, Abschnitte
+    nummeriert „(02) Favoriten“ (`numbers()`, `.gkN` in Eisblau `#9FD8FF`), Fotos ohne Kartenfläche (Liste 2–4 Spalten, 3:4). Start: Vollbild `.gkHero`
+    mit Leitsatz „Rezepte zum Aufwachen. / Gerichte zum Träumen.“ (Grotesk + kursive Fraunces), oben Beschriftungen, unten „Zum Entdecken scrollen“;
+    davor ein Eisbrocken aus echtem 3D-Glas (`glasklar-3d.js`, Titel als undurchsichtige Fläche, folgt dem Finger; `glass()` zeichnet jede Spanne mit
+    eigener Schrift und beachtet `text-transform`). Danach „(01) Heute“: Versal-Satz mit kursivem Teil, füllt sich beim Scrollen. Auf anderen
+    Feld-Seiten Glas über dem Seitentitel. Rezeptseite: Titel groß über dem Foto, Untertitel kursiv.
     **Galerie** (Dez. 2026 zweiter Neubau wie Blauraum, Vorbild shopify.com/editions/winter2026, jetzt vollständig sichtbar): graubeige Seiten
     `#DCDAD1`, Serifen-Titel mit verziertem Anfangsbuchstaben (`::first-letter` in „Skin Garamond“ kursiv), kleine fette Etiketten, schwarze Kapseln.
     Start: selbst gemaltes Winterbild über die ganze Fläche (`.gaHero`, drei Leinwände mit Parallaxe), mittig dünner weißer Rahmen `.gaFrame` mit
